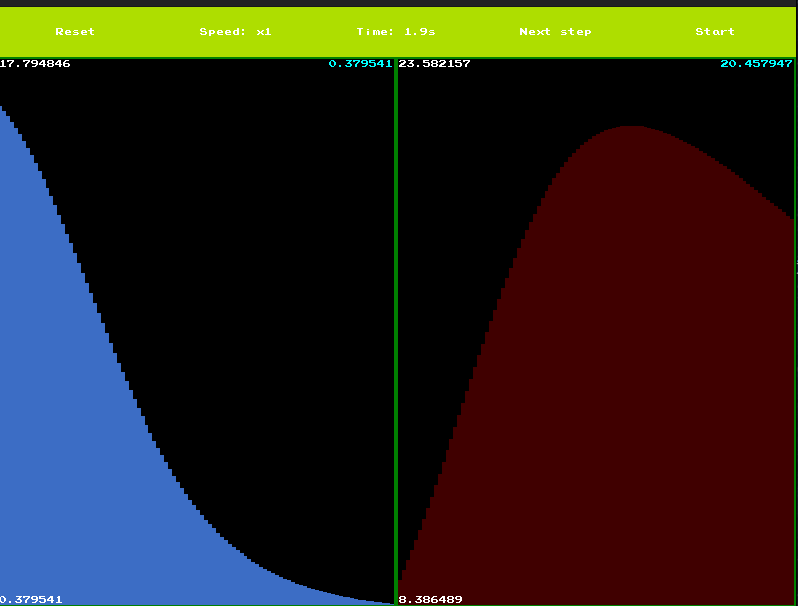
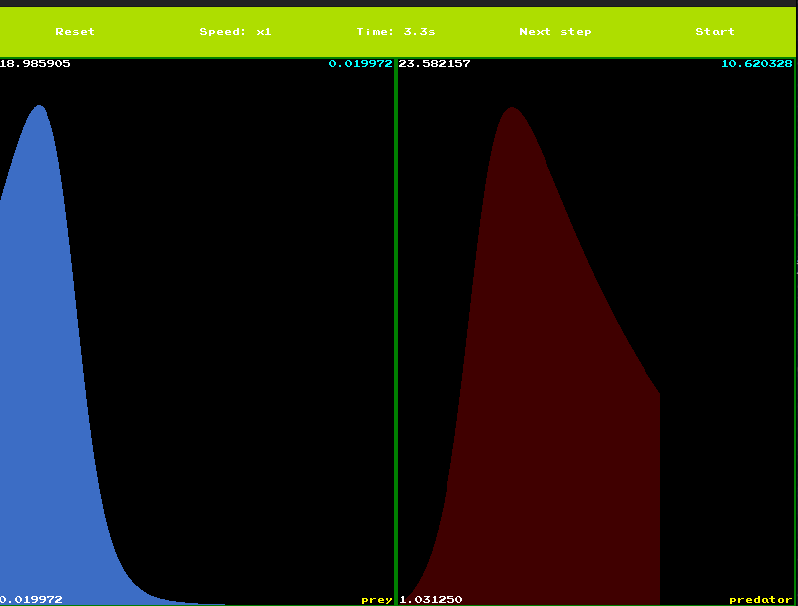
feat: The name of the variables is displayed in the views now

diff --git a/src/ui/EquationView.cc b/src/ui/EquationView.cc
@@ -52,6 +52,7 @@ namespace pge {
     utils::CoreObject("view"),
 
     m_variableId(variableId),
+    m_variableName(name),
 
     m_pos(pos),
     m_size(size),
@@ -130,6 +131,19 @@ namespace pge {
       ),
       txtStr,
       olc::CYAN
+    );
+
+
+
+    txtStr = m_variableName;
+    txtSz = pge->GetTextSize(txtStr);
+    pge->DrawStringDecal(
+      olc::vf2d(
+        m_pos.x + m_size.x - BORDER_MULTIPLIER_FOR_TEXT * offset.x - txtSz.x,
+        m_pos.y + m_size.y - BORDER_MULTIPLIER_FOR_TEXT * offset.y - txtSz.y
+      ),
+      txtStr,
+      olc::YELLOW
     );
   }
 

diff --git a/src/game/simulation/Simulation.cc b/src/game/simulation/Simulation.cc
@@ -282,7 +282,7 @@ namespace eqdif {
 
   void
   Simulation::initialize() {
-// # define DUMMY_SIMULATION
+# define DUMMY_SIMULATION
 # ifdef DUMMY_SIMULATION
     unsigned count = 10u;
 # endif

diff --git a/main.cpp b/main.cpp
@@ -14,7 +14,6 @@
 # include "App.hh"
 
 /// TODO: Handle runge kutta method.
-/// TODO: Add name for variable in view.
 
 int
 main(int /*argc*/, char** /*argv*/) {

diff --git a/README.md b/README.md
@@ -96,5 +96,6 @@ Each view contains all the information needed to interpret the value of the vari
 * on the top left, the maximum value is displayed. This is the maximum value of the whole displayed series
 * on the bottom left, the minimum value is displayed. This is the minimum value of the whole displayed series
 * on the top right (in cyan) the current value of the variable is displayed
+* on the bottom right (in yellow) the name of the variable represented in the view is displayed
 
 The color is chosen at random but is only picked so that it is darker enough to see the additional information in the view.
